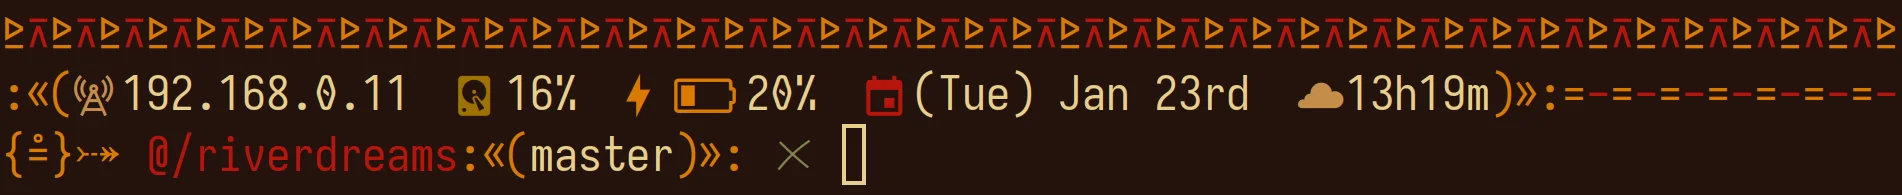
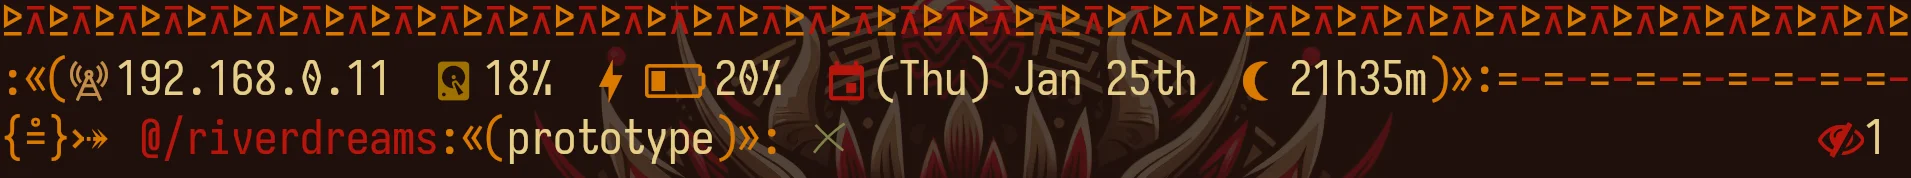
prepare v6.5.0
- Add right prompt back.
- Add dirpermsmod to left prompt.

diff --git a/riverdreams_rprompt.c b/riverdreams_rprompt.c
@@ -1,0 +1,49 @@
+#define _GNU_SOURCE
+#include <stdio.h>
+#include <string.h>
+#include <sys/stat.h>
+#include <dirent.h>
+
+#define DIRINFO(sym, val)\
+	if (val)\
+		printf(" %s%d", sym, val);
+
+static void
+getdirinfo(int *hid, int *tmp, int *sym, int *exec)
+{
+	DIR *d = opendir(".");
+	struct dirent *e;
+	struct stat s;
+	if (!d)
+		return;
+	while ((e = readdir(d))) {
+		if (!strcmp(e->d_name, ".") || !strcmp(e->d_name, ".."))
+			continue;
+		lstat(e->d_name, &s);
+		if (*e->d_name == '.')
+			(*hid)++;
+		else if (*e->d_name == '~')
+			(*tmp)++;
+		if (S_ISLNK(s.st_mode))
+			(*sym)++;
+		else if (S_ISREG(s.st_mode) && s.st_mode & S_IXUSR)
+			(*exec)++;
+	}
+	closedir(d);
+}
+
+int
+main(void)
+{
+	int hid = 0;
+	int tmp = 0;
+	int sym = 0;
+	int exec = 0;
+	getdirinfo(&hid, &tmp, &sym, &exec);
+	DIRINFO("%F{1} %f", hid);
+	DIRINFO("%F{4} %f", sym);
+	DIRINFO("%F{2} %f", exec);
+	DIRINFO("%F{5} %f", tmp);
+	printf("%%(1j. %%F{5} %%f%%j.)\n");
+	return 0;
+}

diff --git a/riverdreams_lprompt.c b/riverdreams_lprompt.c
@@ -9,6 +9,7 @@
 #include <stdlib.h>
 #include <string.h>
 #include <sys/ioctl.h>
+#include <sys/stat.h>
 #include <sys/statvfs.h>
 #include <time.h>
 #include <unistd.h>
@@ -33,6 +34,7 @@ static void diskmod(void);
 static void gitmod(char *root);
 static void ipmod(void);
 static void pathmod(char *pwd, char *root);
+static void dirpermsmod(void);
 static void venvmod(void);
 
 static char *
@@ -186,6 +188,16 @@ pathmod(char *pwd, char *root)
 }
 
 static void
+dirpermsmod(void)
+{
+	struct stat s;
+	int uid = getuid();
+	stat(".", &s);
+	printf(!uid || (uid == s.st_uid && s.st_mode & S_IWUSR) ? " %%F{6}✗"
+								: " %%F{5}");
+}
+
+static void
 venvmod(void)
 {
 	char *v = getenv("VIRTUAL_ENV");
@@ -219,7 +231,8 @@ main(void)
 	venvmod();
 	pathmod(pwd, root);
 	gitmod(root);
-	printf(" %%F{6}✗%%f  \n");
+	dirpermsmod();
+	printf("%%f  \n");
 	free(buf);
 	return 0;
 }

diff --git a/README.md b/README.md
@@ -22,7 +22,7 @@ A tribal inspired ZSH theme for Linux.
 
 ### ¦ Features
 
-Its prompt displays:
+Its left prompt displays:
 
 &emsp;**1.**&ensp;Your local IPV4 address.\
 &emsp;**2.**&ensp;Your disk use percentage.\
@@ -33,7 +33,16 @@ Its prompt displays:
 &emsp;**7.**&ensp;A decorator for exit codes.\
 &emsp;**8.**&ensp;The active virtual environment, if one has been sourced.\
 &emsp;**9.**&ensp;The active directory path, shorting it when inside a git repo.\
-&emsp;**10.**&ensp;The active branch, when inside a git repo.
+&emsp;**10.**&ensp;The active branch, when inside of a git repo.\
+&emsp;**11.**&ensp;A decorator to check if you can modify the active directory.
+
+Its right prompt displays:
+
+&emsp;**1.**&ensp;The total of hidden entries in the active directory.\
+&emsp;**2.**&ensp;The total of temporary entries in the active directory.\
+&emsp;**3.**&ensp;The total of symlinks in the active directory.\
+&emsp;**4.**&ensp;The total of executables in the active directory.\
+&emsp;**5.**&ensp;The total of background jobs.
 
 ## ❡ Install
 
@@ -73,7 +82,8 @@ sudo make install clean;
 export VIRTUAL_ENV_DISABLE_PROMPT=1;
 
 setopt promptsubst;
-PROMPT='$(riverdreams)';
+PROMPT='$(riverdreams_lprompt)';
+RPROMPT='$(riverdreams_rprompt)';
 ```
 
 &emsp;**5.**&ensp;Reopen ZSH.
